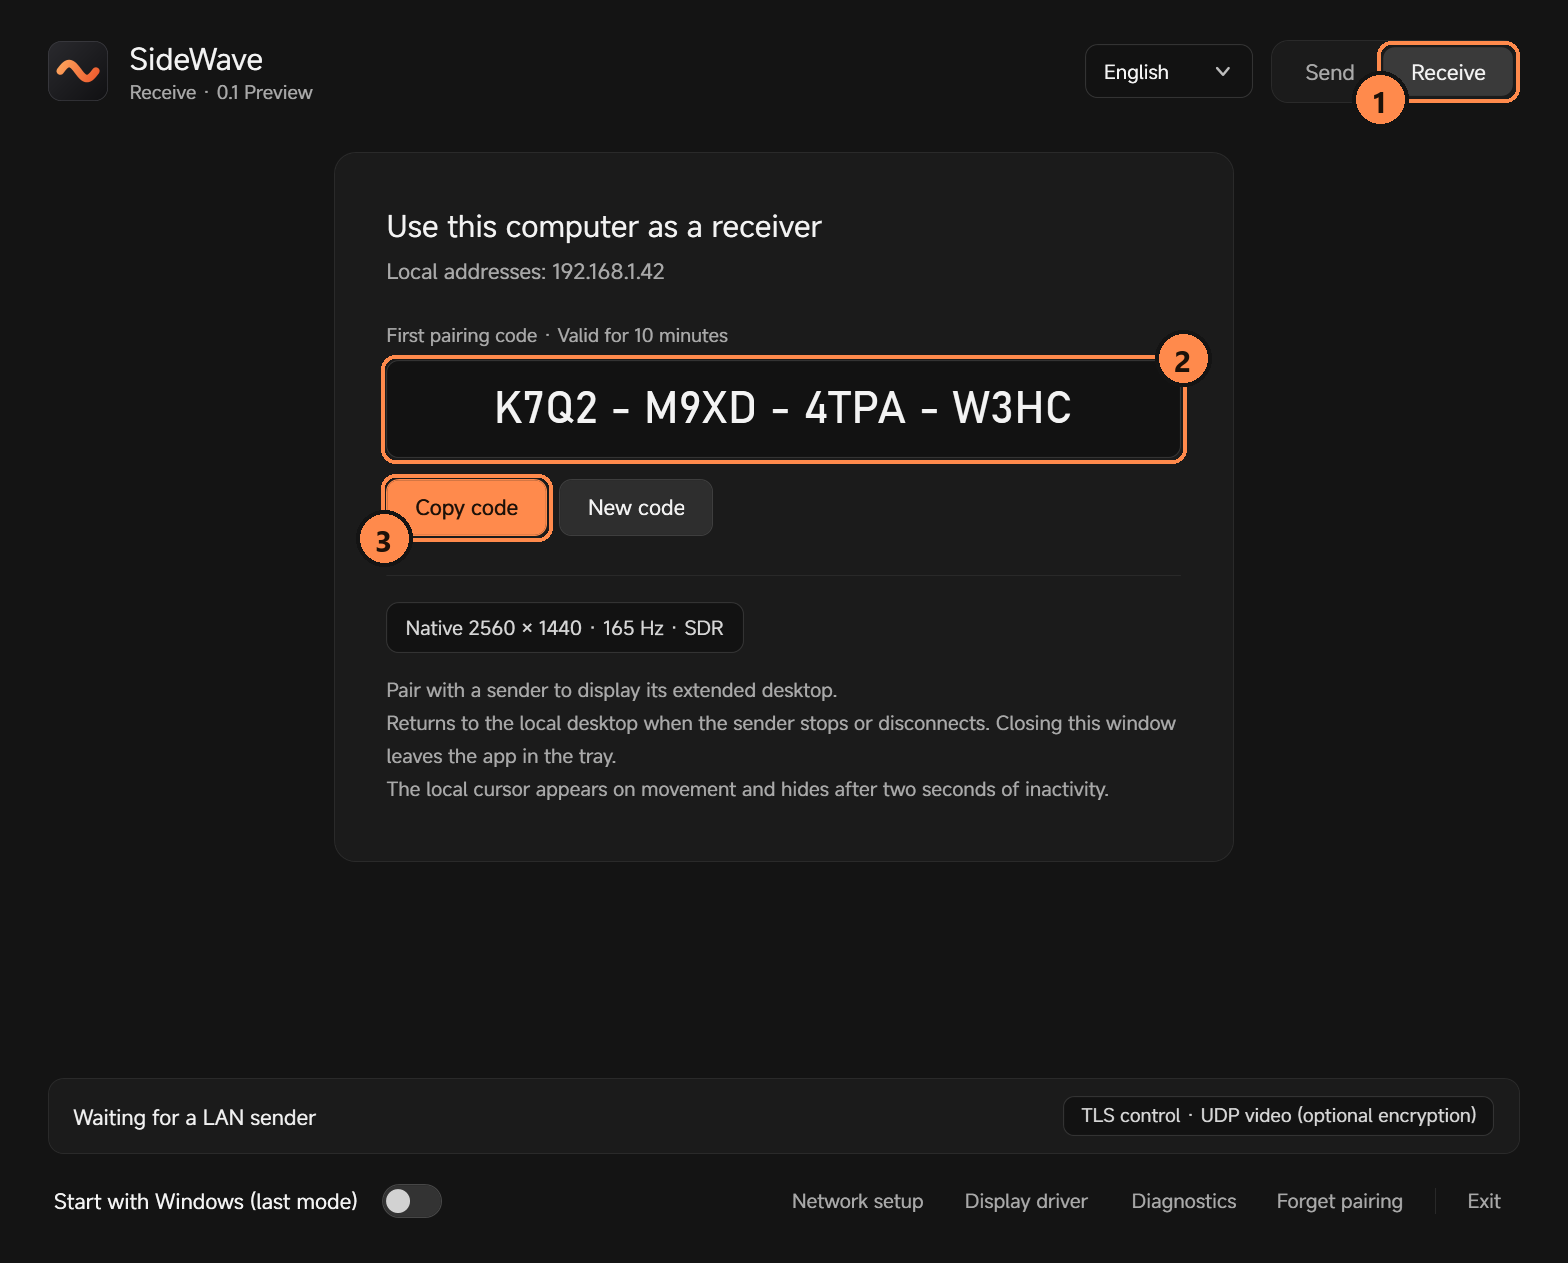
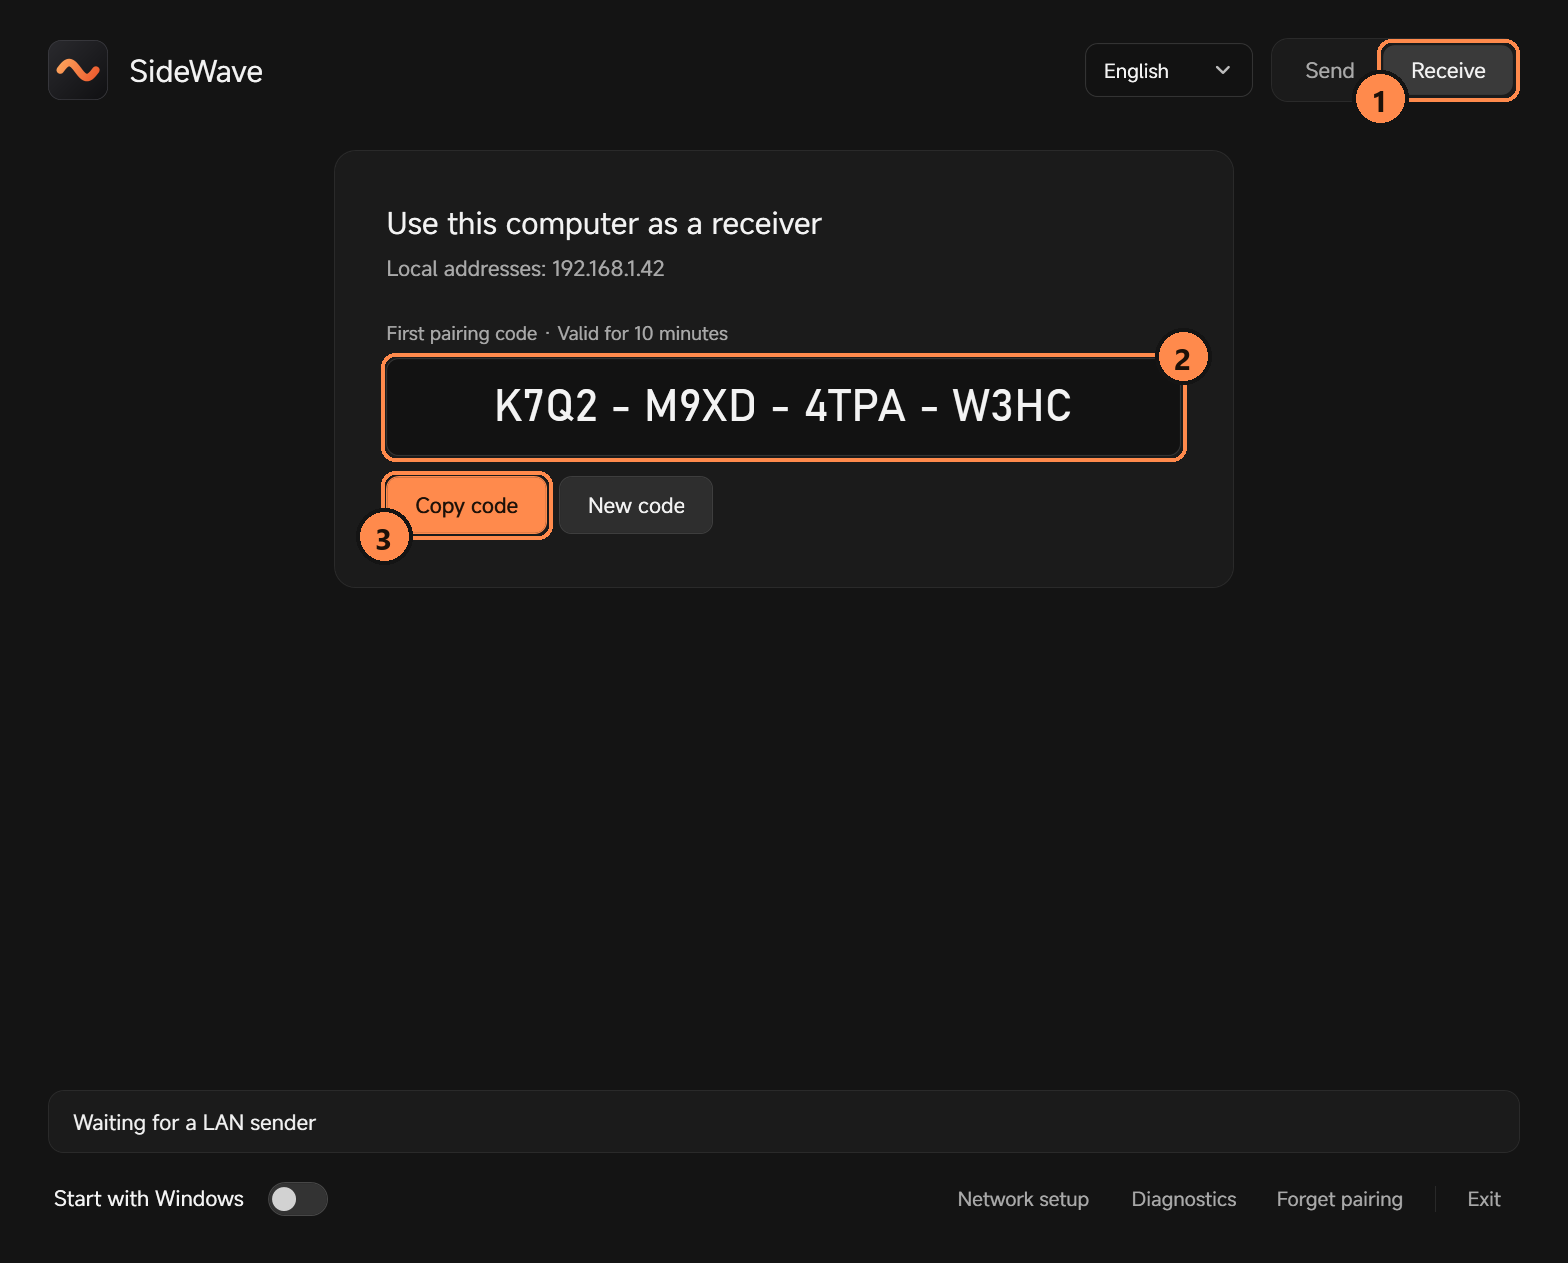
Remove redundant text from the main window
- Header shows only the product name; the mode switch already shows the mode.
- The bandwidth line appears only for the slower-than-gigabit warning.
- Telemetry chip is hidden until there is live data; the receiver no
  longer shows fixed transport or panel details or the static usage notes.
- Shorter labels for quality, changed regions and Windows startup.

diff --git a/src/MainWindow.xaml b/src/MainWindow.xaml
@@ -34,6 +34,11 @@
   <Style x:Key="Section" TargetType="TextBlock"><Setter Property="FontSize" Value="16"/><Setter Property="FontWeight" Value="SemiBold"/></Style>
   <Style x:Key="Label" TargetType="TextBlock"><Setter Property="FontSize" Value="12.5"/><Setter Property="Foreground" Value="{StaticResource TextDim}"/></Style>
   <Style x:Key="Hint" TargetType="TextBlock"><Setter Property="FontSize" Value="12.5"/><Setter Property="Foreground" Value="{StaticResource TextFaint}"/><Setter Property="TextWrapping" Value="Wrap"/></Style>
+  <!-- 只在有内容时占位：没有警告或遥测时整行隐藏 -->
+  <Style x:Key="Notice" TargetType="TextBlock" BasedOn="{StaticResource Hint}">
+   <Setter Property="Foreground" Value="#FFB37E"/>
+   <Style.Triggers><Trigger Property="Text" Value=""><Setter Property="Visibility" Value="Collapsed"/></Trigger></Style.Triggers>
+  </Style>
   <Style x:Key="CardPanel" TargetType="Border">
    <Setter Property="Background" Value="{StaticResource Card}"/><Setter Property="BorderBrush" Value="{StaticResource CardBorder}"/>
    <Setter Property="BorderThickness" Value="1"/><Setter Property="CornerRadius" Value="14"/><Setter Property="Padding" Value="22"/>
@@ -283,7 +288,6 @@
    <Image Name="RoleIcon" Width="40" Height="40" Margin="0,0,14,0" DockPanel.Dock="Left"/>
    <StackPanel VerticalAlignment="Center">
     <TextBlock Name="Heading" Text="SideWave" FontSize="20" FontWeight="SemiBold"/>
-    <TextBlock Name="Version" Text="0.1 Preview" FontSize="12.5" Foreground="{StaticResource TextDim}" Margin="0,1,0,0"/>
    </StackPanel>
   </DockPanel>
 
@@ -361,14 +365,14 @@
          </ComboBox>
         </StackPanel>
         <StackPanel Grid.Column="2">
-         <TextBlock Text="画质 / 带宽预算" Style="{StaticResource Label}"/>
+         <TextBlock Text="画质" Style="{StaticResource Label}"/>
          <ComboBox Name="Quality">
           <ComboBoxItem Content="均衡 · 400 Mbps"/><ComboBoxItem Content="清晰 · 600 Mbps"/>
           <ComboBoxItem Content="高画质 · 750 Mbps"/><ComboBoxItem Content="极高画质 · 900 Mbps"/>
          </ComboBox>
         </StackPanel>
        </Grid>
-       <TextBlock Name="BandwidthNote" Text="按所选帧率持续发送；屏幕实际刷新由硬件决定。" Style="{StaticResource Hint}" Margin="0,8,0,0"/>
+       <TextBlock Name="BandwidthNote" Text="" Style="{StaticResource Notice}" Margin="0,10,0,0"/>
        <Button Name="Apply" AutomationProperties.Name="应用画面设置" Content="应用画面设置" Style="{StaticResource PrimaryButton}" Padding="18,10" Margin="0,14,0,0" IsEnabled="False"
         ToolTip="切换参数保留控制连接，画面会短暂停顿。&#10;静止画面也持续发送；实际刷新受屏幕硬件限制。"/>
        <TextBlock Text="传输选项" Style="{StaticResource Label}" Margin="0,20,0,8"/>
@@ -378,7 +382,7 @@
          <Border Height="1" Background="{StaticResource Hairline}"/>
          <CheckBox Name="AllowTearing" Content="低延迟显示（允许撕裂）" Margin="14,9" ToolTip="减少呈现等待；可能出现画面撕裂。LAT 使用系统显示采样，包含渲染和显示等待；不包含面板响应。点应用后生效。"/>
          <Border Height="1" Background="{StaticResource Hairline}"/>
-         <CheckBox Name="PartialFrames" Content="只传输变化区域（降低延迟）" Margin="14,9" ToolTip="桌面只有局部变化时只编码并发送变化区域，减少传输时间和带宽；全屏运动时自动发送整帧。需要副机也升级到支持此功能的版本。点应用后生效。"/>
+         <CheckBox Name="PartialFrames" Content="只传输变化区域" Margin="14,9" ToolTip="桌面只有局部变化时只编码并发送变化区域，减少传输时间和带宽；全屏运动时自动发送整帧。需要副机也升级到支持此功能的版本。点应用后生效。"/>
          <Border Height="1" Background="{StaticResource Hairline}"/>
          <CheckBox Name="ClientCursor" Content="副机硬件光标（实验）" Margin="14,9" ToolTip="主机鼠标位置和形状单独发送，副机用自己的系统硬件光标显示，不再等待视频编码和解码；画面里不再合成主机光标。副机切到其他程序时不移动其鼠标。需要副机也升级。点应用后生效。"/>
          <Border Height="1" Background="{StaticResource Hairline}"/>
@@ -398,12 +402,6 @@
       <StackPanel Orientation="Horizontal" Margin="0,14,0,0">
        <Button Name="CopyCode" Content="复制配对码" Style="{StaticResource PrimaryButton}"/><Button Name="RenewCode" Content="刷新配对码"/>
       </StackPanel>
-      <Border Height="1" Background="{StaticResource Hairline}" Margin="0,24,0,18"/>
-      <Border HorizontalAlignment="Left" Background="{StaticResource Inset}" BorderBrush="{StaticResource InsetBorder}" BorderThickness="1" CornerRadius="8" Padding="12,7">
-       <TextBlock Name="ClientSpecs" Foreground="#D6D6D6" FontSize="13"/>
-      </Border>
-      <TextBlock Text="配对后等待主机连接，即可显示真实扩展桌面。&#10;主机停止或断开后返回本机桌面。窗口关闭后仍在托盘等待。&#10;本机鼠标默认隐藏，移动后显示，两秒静止后隐藏。"
-       Foreground="{StaticResource TextDim}" FontSize="13" LineHeight="22" TextWrapping="Wrap" Margin="0,16,0,0"/>
      </StackPanel>
     </Border>
    </Grid>
@@ -414,7 +412,10 @@
    <Border Background="{StaticResource Card}" BorderBrush="{StaticResource CardBorder}" BorderThickness="1" CornerRadius="10" Padding="16,11">
     <DockPanel>
      <Border DockPanel.Dock="Right" Background="{StaticResource Inset}" BorderBrush="{StaticResource InsetBorder}" BorderThickness="1" CornerRadius="7" Padding="11,4" Margin="16,0,0,0" VerticalAlignment="Center">
-      <TextBlock Name="Telemetry" Text="FPS --  ·  延迟 -- ms" Foreground="#D6D6D6" FontSize="12.5" VerticalAlignment="Center"/>
+      <Border.Style><Style TargetType="Border"><Style.Triggers>
+       <DataTrigger Binding="{Binding Text,ElementName=Telemetry}" Value=""><Setter Property="Visibility" Value="Collapsed"/></DataTrigger>
+      </Style.Triggers></Style></Border.Style>
+      <TextBlock Name="Telemetry" Text="" Foreground="#D6D6D6" FontSize="12.5" VerticalAlignment="Center"/>
      </Border>
      <TextBlock Name="Status" Text="正在初始化…" TextWrapping="Wrap" Foreground="#F0F0F0" VerticalAlignment="Center"/>
     </DockPanel>
@@ -428,7 +429,7 @@
      <Border Width="1" Height="18" Background="{StaticResource Hairline}" Margin="6,0,8,0"/>
      <Button Name="Exit" Content="退出" Style="{StaticResource DangerQuietButton}" Margin="0"/>
     </StackPanel>
-    <CheckBox Name="Startup" Content="随 Windows 启动（使用上次模式）" HorizontalAlignment="Left" VerticalAlignment="Center"/>
+    <CheckBox Name="Startup" Content="随 Windows 启动" HorizontalAlignment="Left" VerticalAlignment="Center"/>
    </DockPanel>
   </StackPanel>
  </Grid>

diff --git a/src/App.cs b/src/App.cs
@@ -34,7 +34,7 @@ class App {
  NetworkAddressChangedEventHandler networkChanged;long networkChangeAt;int poorNetworkSamples,networkVideoRecoveries;
  readonly VideoRecovery senderRecovery=new VideoRecovery();int senderVideoRecoveries;
  NamedPipeServerStream activation;
- List<Action> translations;bool changingLanguage;string clientAddressText="",clientSpecsText="";
+ List<Action> translations;bool changingLanguage;string clientAddressText="";
  static readonly int[] Budgets={400,600,750,900};
  static readonly int[,] Resolutions={{0,0},{1280,720},{1600,900},{1920,1080},{2048,1152},{2560,1440},{3200,1800},{3840,2160}};
  volatile string telemetryJson="{}";long telemetryTime;
@@ -48,7 +48,6 @@ class App {
   using(var source=File.OpenRead(Path.Combine(Paths.Bin,"MainWindow.xaml")))window=(Window)XamlReader.Load(source);
   window.Title="SideWave · "+Language.Tr(client?"接收模式":"发送模式");
   window.SourceInitialized+=(s,e)=>DarkCaption(new WindowInteropHelper(window).Handle);
-  C<TextBlock>("Version").Text=Language.Tr(client?"接收模式":"发送模式")+" · 0.1 Preview";
   string image=Path.Combine(Paths.Bin,client?"client.png":"host.png");
   C<Image>("RoleIcon").Source=(System.Windows.Media.ImageSource)window.FindResource("IconApp");
   window.Icon=(System.Windows.Media.ImageSource)window.FindResource("IconApp");
@@ -191,11 +190,10 @@ class App {
  void InitClient(){
   C<Grid>("HostPanel").Visibility=Visibility.Collapsed;C<Border>("ClientPanel").Visibility=Visibility.Visible;
   C<Button>("Driver").Visibility=Visibility.Collapsed;
-  C<TextBlock>("Telemetry").Text=Language.Tr("TLS 控制 · UDP 视频（加密可选）");
+  C<TextBlock>("Telemetry").Text="";
   clientAddressText="本机地址："+String.Join(" · ",NetworkInterface.GetAllNetworkInterfaces()
    .Where(n=>n.OperationalStatus==OperationalStatus.Up).SelectMany(n=>n.GetIPProperties().UnicastAddresses)
    .Where(a=>a.Address.AddressFamily==AddressFamily.InterNetwork&&!System.Net.IPAddress.IsLoopback(a.Address)).Select(a=>a.Address.ToString()));
-  clientSpecsText="原生 "+ScreenInfo.Width()+" × "+ScreenInfo.Height()+" · "+ScreenInfo.Hz()+" Hz · SDR";
   server=new ClientService(settings);server.Status+=SetStatus;
   Action showCode=()=>{string code=server.Code;C<TextBox>("ClientCode").Text=String.Join(" - ",Enumerable.Range(0,4).Select(i=>code.Substring(i*4,4)));};
   showCode();
@@ -215,10 +213,9 @@ class App {
  void RefreshLanguage(){
   foreach(var translate in translations)translate();
   window.Title="SideWave · "+Language.Tr(client?"接收模式":"发送模式");
-  C<TextBlock>("Version").Text=Language.Tr(client?"接收模式":"发送模式")+" · 0.1 Preview";
   tray.Text="SideWave "+Language.Tr(client?"接收模式":"发送模式");
   tray.ContextMenuStrip.Items[0].Text=Language.Tr("打开");tray.ContextMenuStrip.Items[1].Text=Language.Tr("退出");
-  if(client){C<TextBlock>("ClientAddresses").Text=Language.Tr(clientAddressText);C<TextBlock>("ClientSpecs").Text=Language.Tr(clientSpecsText);C<TextBlock>("Telemetry").Text=Language.Tr("TLS 控制 · UDP 视频（加密可选）");}
+  if(client){C<TextBlock>("ClientAddresses").Text=Language.Tr(clientAddressText);}
   else{Buttons();C<Button>("Scan").Content=Language.Tr(C<Button>("Scan").IsEnabled?"刷新":"搜索中…");}
   C<TextBlock>("Status").Text=Language.Tr(lastStatus);
  }
@@ -332,19 +329,19 @@ class App {
    try{link.Apply(oldW,oldH,oldF,oldB);}catch(Exception restore){SetStatus("恢复失败："+restore.Message);}
   }finally{if(link.ReceiverPid!=oldPid)ClearTelemetry();busy=false;Buttons();}
  }
- void ClearTelemetry(){telemetryJson="{}";Interlocked.Exchange(ref telemetryTime,0);UI(()=>C<TextBlock>("Telemetry").Text=Language.Tr("FPS -- · 延迟 -- ms"));}
+ void ClearTelemetry(){telemetryJson="{}";Interlocked.Exchange(ref telemetryTime,0);UI(()=>C<TextBlock>("Telemetry").Text="");}
  void BeginOperation(string action,string status){if(action=="connect")ClearTelemetry();busyAction=action;busy=true;SetStatus(status);Buttons();}
  void Buttons(){UI(()=>{
   C<Button>("Connect").IsEnabled=!busy&&!link.Connected;C<Button>("Disconnect").IsEnabled=!busy&&(link.Connected||link.HasDisplay);
   C<Button>("Apply").IsEnabled=!busy&&link.Connected;
   bool slowLink=link.Connected&&((link.LocalLinkMbps>0&&link.LocalLinkMbps<1000)||(link.RemoteLinkMbps>0&&link.RemoteLinkMbps<1000));
-  C<TextBlock>("BandwidthNote").Text=Language.Tr((link.Connected&&link.EffectiveFps>0?"目标 "+link.EffectiveFps+" FPS · 线路预算 "+link.LinkBudgetMbps+" Mbps":"按所选帧率持续发送；屏幕实际刷新由硬件决定。")+(slowLink?"\n网卡连接低于千兆（本机 "+link.LocalLinkMbps+" / 副机 "+link.RemoteLinkMbps+" Mbps），帧率和画质会受限。请检查网线后重新连接。":""));
+  C<TextBlock>("BandwidthNote").Text=Language.Tr((slowLink?"网卡连接低于千兆（本机 "+link.LocalLinkMbps+" / 副机 "+link.RemoteLinkMbps+" Mbps），帧率和画质会受限。请检查网线后重新连接。":""));
   C<Button>("Connect").Content=Language.Tr(busy&&busyAction=="connect"?"正在连接…":"连接副机");
   C<Button>("Disconnect").Content=Language.Tr(busy&&busyAction=="disconnect"?"正在断开…":"断开");
   C<Button>("Apply").Content=Language.Tr(busy&&busyAction=="apply"?"正在应用…":"应用画面设置");
   C<ComboBox>("Resolution").IsEnabled=!busy;C<ComboBox>("FrameRate").IsEnabled=!busy;C<ComboBox>("Quality").IsEnabled=!busy;
   C<CheckBox>("VideoEncryption").IsEnabled=!busy;C<CheckBox>("PacketProtection").IsEnabled=!busy;C<CheckBox>("AllowTearing").IsEnabled=!busy;C<CheckBox>("PartialFrames").IsEnabled=!busy;C<CheckBox>("ClientCursor").IsEnabled=!busy;
-  if(!link.Connected)C<TextBlock>("Telemetry").Text=Language.Tr("FPS -- · 延迟 -- ms");
+  if(!link.Connected)C<TextBlock>("Telemetry").Text="";
  });}
  void ScheduleRetry(){nextRetry=DateTime.UtcNow.AddSeconds(retrySeconds);retrySeconds=Math.Min(30,retrySeconds*2);}
  static double Number(Dictionary<string,object> data,string key){double value;return data!=null&&Double.TryParse(Json.S(data,key,"0"),System.Globalization.NumberStyles.Float,System.Globalization.CultureInfo.InvariantCulture,out value)?value:0;}

diff --git a/src/Localization.cs b/src/Localization.cs
@@ -57,7 +57,7 @@ static class Language {
   {"低延迟显示（允许撕裂）","Low latency display (allow tearing)"},
   {"副机硬件光标（实验）","Receiver hardware cursor (experimental)"},
   {"主机鼠标位置和形状单独发送，副机用自己的系统硬件光标显示，不再等待视频编码和解码；画面里不再合成主机光标。副机切到其他程序时不移动其鼠标。需要副机也升级。点应用后生效。","Sends the sender's pointer position and shape separately so the receiver draws it with its own hardware cursor, without waiting for video encode and decode; the pointer is no longer composited into the video. The receiver's mouse is not moved while another app is in front. The receiver must also be updated. Takes effect after Apply."},
-  {"只传输变化区域（降低延迟）","Send changed regions only (lower latency)"},
+  {"只传输变化区域","Send changed regions only"},
   {"桌面只有局部变化时只编码并发送变化区域，减少传输时间和带宽；全屏运动时自动发送整帧。需要副机也升级到支持此功能的版本。点应用后生效。","When only part of the desktop changes, encode and send just that region to cut transfer time and bandwidth; full-screen motion still sends whole frames. The receiver must also be updated. Takes effect after Apply."},
   {"变化区域传输设置已更改，点击“应用画面设置”生效。","Changed-region setting updated. Click Apply display settings."},
   {"副机版本不支持只传输变化区域，已使用整帧传输。","The receiver does not support changed-region frames; sending whole frames."},
@@ -75,7 +75,7 @@ static class Language {
   {"输入副机显示的配对码；已配对设备留空","Enter the receiver's code; leave blank for a paired device"},
   {"连接副机","Connect"},{"断开","Disconnect"},{"画面设置","Display settings"},
   {"分辨率","Resolution"},{"副机原生分辨率","Receiver native resolution"},
-  {"目标帧率","Target frame rate"},{"帧率","Frame rate"},{"画质 / 带宽预算","Quality / bandwidth budget"},
+  {"目标帧率","Target frame rate"},{"帧率","Frame rate"},{"画质","Quality"},
   {"均衡 · 400 Mbps","Balanced · 400 Mbps"},{"清晰 · 600 Mbps","Clear · 600 Mbps"},{"高画质 · 750 Mbps","High quality · 750 Mbps"},{"极高画质 · 900 Mbps","Ultra quality · 900 Mbps"},
   {"按所选帧率持续发送；屏幕实际刷新由硬件决定。","Send continuously at the selected rate; physical refresh depends on the panel."},
   {"目标 ","Target "},{" FPS · 线路预算 "," FPS · Link budget "},
@@ -90,7 +90,7 @@ static class Language {
   {"首次配对码 · 10 分钟有效","First pairing code · Valid for 10 minutes"},{"客户端配对码","Receiver pairing code"},
   {"复制配对码","Copy code"},{"刷新配对码","New code"},
   {"配对后等待主机连接，即可显示真实扩展桌面。\n主机停止或断开后返回本机桌面。窗口关闭后仍在托盘等待。\n本机鼠标默认隐藏，移动后显示，两秒静止后隐藏。","Pair with a sender to display its extended desktop.\nReturns to the local desktop when the sender stops or disconnects. Closing this window leaves the app in the tray.\nThe local cursor appears on movement and hides after two seconds of inactivity."},
-  {"随 Windows 启动（使用上次模式）","Start with Windows (last mode)"},
+  {"随 Windows 启动","Start with Windows"},
   {"登录后在托盘运行上次模式；发送模式使用已保存的自动连接设置。","Start in the tray after sign-in using the last mode and saved auto-connect preference."},
   {"网络设置","Network setup"},{"虚拟屏驱动","Display driver"},{"诊断","Diagnostics"},{"忘记配对","Forget pairing"},{"退出","Exit"},{"打开","Open"},
   {"正在初始化…","Initializing…"},{"FPS --  ·  延迟 -- ms","FPS --  ·  Latency -- ms"},{"FPS -- · 延迟 -- ms","FPS -- · Latency -- ms"},

diff --git a/README.md b/README.md
@@ -53,7 +53,7 @@ Paired devices reconnect without a code. Closing the window keeps SideWave in th
 
 | Option | What it does | Default |
 | --- | --- | --- |
-| Quality / bandwidth budget | Encoded-data budget of 400 / 600 / 750 / 900 Mbps; capped to 90% of the slower network adapter | 600 Mbps |
+| Quality | Encoded-data budget of 400 / 600 / 750 / 900 Mbps; capped to 90% of the slower network adapter | 600 Mbps |
 | Video encryption | AES-256-GCM for video packets; off sends plaintext UDP with less overhead | Off |
 | Low latency display | Presents without waiting for vertical sync; tearing is possible | Off |
 | Send changed regions only | Encodes only the part of the desktop that changed; full-screen motion still sends whole frames | Off |

diff --git a/README.zh-CN.md b/README.zh-CN.md
@@ -53,7 +53,7 @@
 
 | 选项 | 作用 | 默认 |
 | --- | --- | --- |
-| 画质 / 带宽预算 | 编码数据预算 400 / 600 / 750 / 900 Mbps；不超过两端较慢网卡速率的 90% | 600 Mbps |
+| 画质 | 编码数据预算 400 / 600 / 750 / 900 Mbps；不超过两端较慢网卡速率的 90% | 600 Mbps |
 | 视频加密 | 视频包使用 AES-256-GCM；关闭时为明文 UDP，开销更小 | 关 |
 | 低延迟显示（允许撕裂） | 不等待垂直同步直接呈现，可能出现画面撕裂 | 关 |
 | 只传输变化区域 | 只编码桌面变化的部分；全屏运动时仍发送整帧 | 关 |
